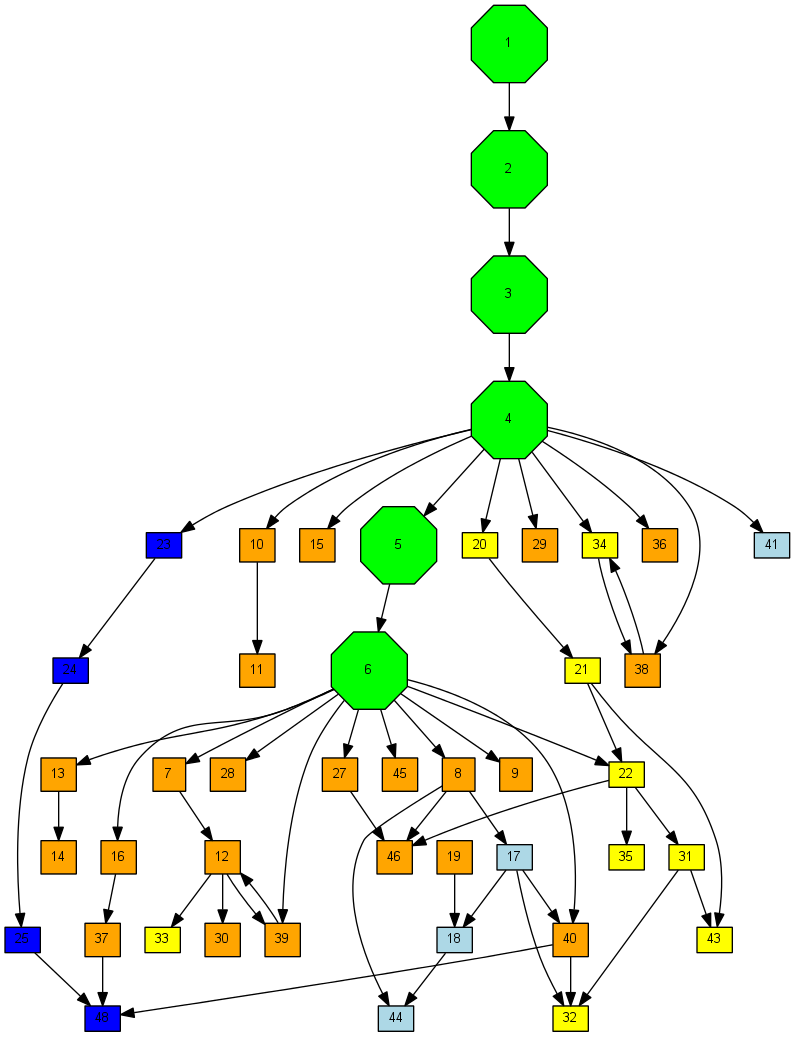
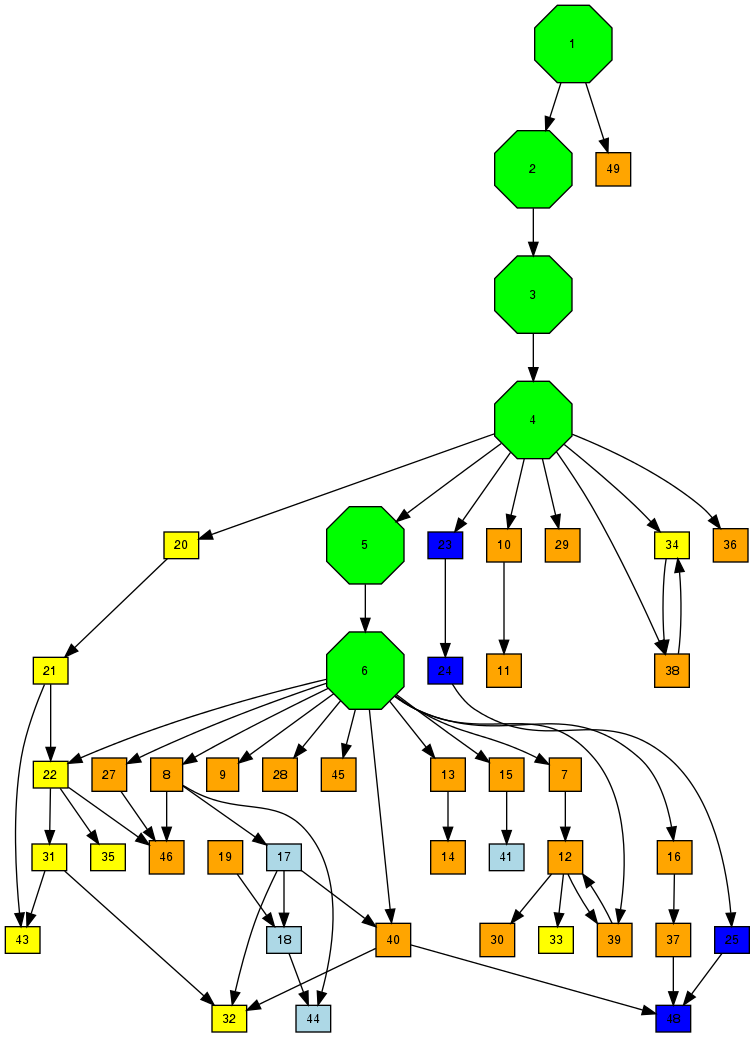
include step-49 in toc/graph
git-svn-id: https://svn.dealii.org/trunk@28468 0785d39b-7218-0410-832d-ea1e28bc413d

Changed region(s): [[0.0, 0.0, 1.0, 1.0], [0.1523, 0.5554, 0.1828, 0.5863], [0.1219, 0.5863, 0.1523, 0.6172]]

diff --git a/deal.II/doc/doxygen/tutorial/toc-list.html b/deal.II/doc/doxygen/tutorial/toc-list.html
@@ -303,6 +303,11 @@
 	a diagonal mass matrix. Efficient implementation of (nonlinear) finite
 	element operators.
       </td></tr>
+
+  <tr valign="top">
+      <td><a href="../../doxygen/deal.II/step_49.html">Step-49</a></td>
+      <td> Advanced mesh creation and manipulation techniques.
+      </td></tr>
 </table>
 
 
